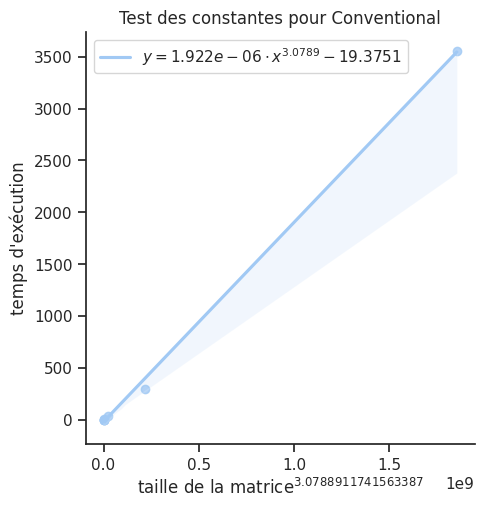
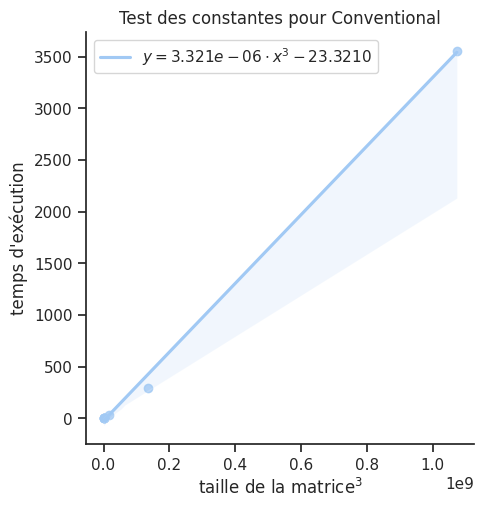
Use theoretical polynomial complexity power for ratio and constant tests

diff --git a/TP1/analyze.py b/TP1/analyze.py
@@ -2,6 +2,7 @@
 
 import argparse
 import itertools
+import math
 from pathlib import Path
 import re
 import statistics
@@ -23,6 +24,11 @@ MAX_N_SIZES = {
     'Conventional': None,
     'Strassen': 9,
     'StrassenThreshold': None,
+}
+THEORETICAL_COMPLEXITY_POWERS = {
+    'Conventional': 3,
+    'Strassen': math.log2(7),
+    'StrassenThreshold': math.log2(7),
 }
 
 
@@ -103,26 +109,26 @@ def main():
         legend_labels = plt.legend().get_texts()
         for i, algorithm_name in enumerate(ALGORITHMS):
             slope, intercept = slope_intercepts[algorithm_name]
-            legend_labels[i].set_text(fr'$\log_2(y) = {slope:.2f}\log_2(x){"+" if intercept > 0 else ""}{intercept:.2f}$')
+            legend_labels[i].set_text(fr'$\log_2(y) = {slope:.4f}\log_2(x){"+" if intercept > 0 else ""}{intercept:.2f}$')
         ax.set(title='Test de puissance', xlabel=r'$\log_2(\mathrm{taille\ de\ la\ matrice}) = \log_2(2^N) = N$', ylabel=r'$\log_2(\mathrm{temps\ d\'exécution})$')
         plt.savefig(ANALYSIS_OUTPUT_PATH / 'power_test.png', bbox_inches='tight')
 
         # Ratio test
         for algorithm_name in ALGORITHMS:
             long_df_filtered = long_df[long_df['Algorithm'] == algorithm_name].dropna()
-            power = slope_intercepts[algorithm_name][0] # TODO: Check if this should use theoretical complexity instead
+            power = THEORETICAL_COMPLEXITY_POWERS[algorithm_name]
             long_df_filtered['y/h(x)'] = long_df_filtered['ExecutionTime'] / long_df_filtered['2^N'] ** power
 
             with sns.axes_style('whitegrid'):
                 plt.figure()
                 ax = sns.lineplot(x='2^N', y='y/h(x)', data=long_df_filtered, marker='o')
-                ax.set(title=f'Test du rapport pour {algorithm_name}', xlabel=r'$\mathrm{taille\ de\ la\ matrice} = 2^N$', ylabel=fr'$\mathrm{{temps\ d\'exécution}}\ /\ N^{{{power}}}$')
+                ax.set(title=f'Test du rapport pour {algorithm_name}', xlabel=r'$\mathrm{taille\ de\ la\ matrice} = 2^N$', ylabel=fr'$\mathrm{{temps\ d\'exécution}}\ /\ N^{{{round(power, 4)}}}$')
                 plt.savefig(ANALYSIS_OUTPUT_PATH / f'ratio_test_{algorithm_name.lower()}.png', bbox_inches='tight')
 
         # Constants test
         for algorithm_name in ALGORITHMS:
             long_df_filtered = long_df[long_df['Algorithm'] == algorithm_name].dropna()
-            power = slope_intercepts[algorithm_name][0] # TODO: Check if this should use theoretical complexity instead
+            power = THEORETICAL_COMPLEXITY_POWERS[algorithm_name]
             long_df_filtered['h(x)'] = long_df_filtered['2^N'] ** power
 
             slope, intercept, _, _, _ = stats.linregress(x=long_df_filtered['h(x)'], y=long_df_filtered['ExecutionTime'])
@@ -130,10 +136,10 @@ def main():
             plt.figure()
             ax = sns.lmplot(
                 x='h(x)', y='ExecutionTime', data=long_df_filtered,
-                line_kws={'label': fr'$y = {slope:.4} \cdot x^{{{power:.4f}}}{"+" if intercept > 0 else ""}{intercept:.4f}$'}
+                line_kws={'label': fr'$y = {slope:.4} \cdot x^{{{round(power, 4)}}}{"+" if intercept > 0 else ""}{intercept:.4f}$'}
             )
             plt.legend()
-            ax.set(title=f'Test des constantes pour {algorithm_name}', xlabel=fr'$\mathrm{{taille\ de\ la\ matrice}}^{{{power}}}$', ylabel='temps d\'exécution')
+            ax.set(title=f'Test des constantes pour {algorithm_name}', xlabel=fr'$\mathrm{{taille\ de\ la\ matrice}}^{{{round(power, 4)}}}$', ylabel='temps d\'exécution')
             plt.savefig(ANALYSIS_OUTPUT_PATH / f'constants_test_{algorithm_name.lower()}.png', bbox_inches='tight')
 
 def measure_execution_times(algorithms, trial_count=1, extra_args=[]):
